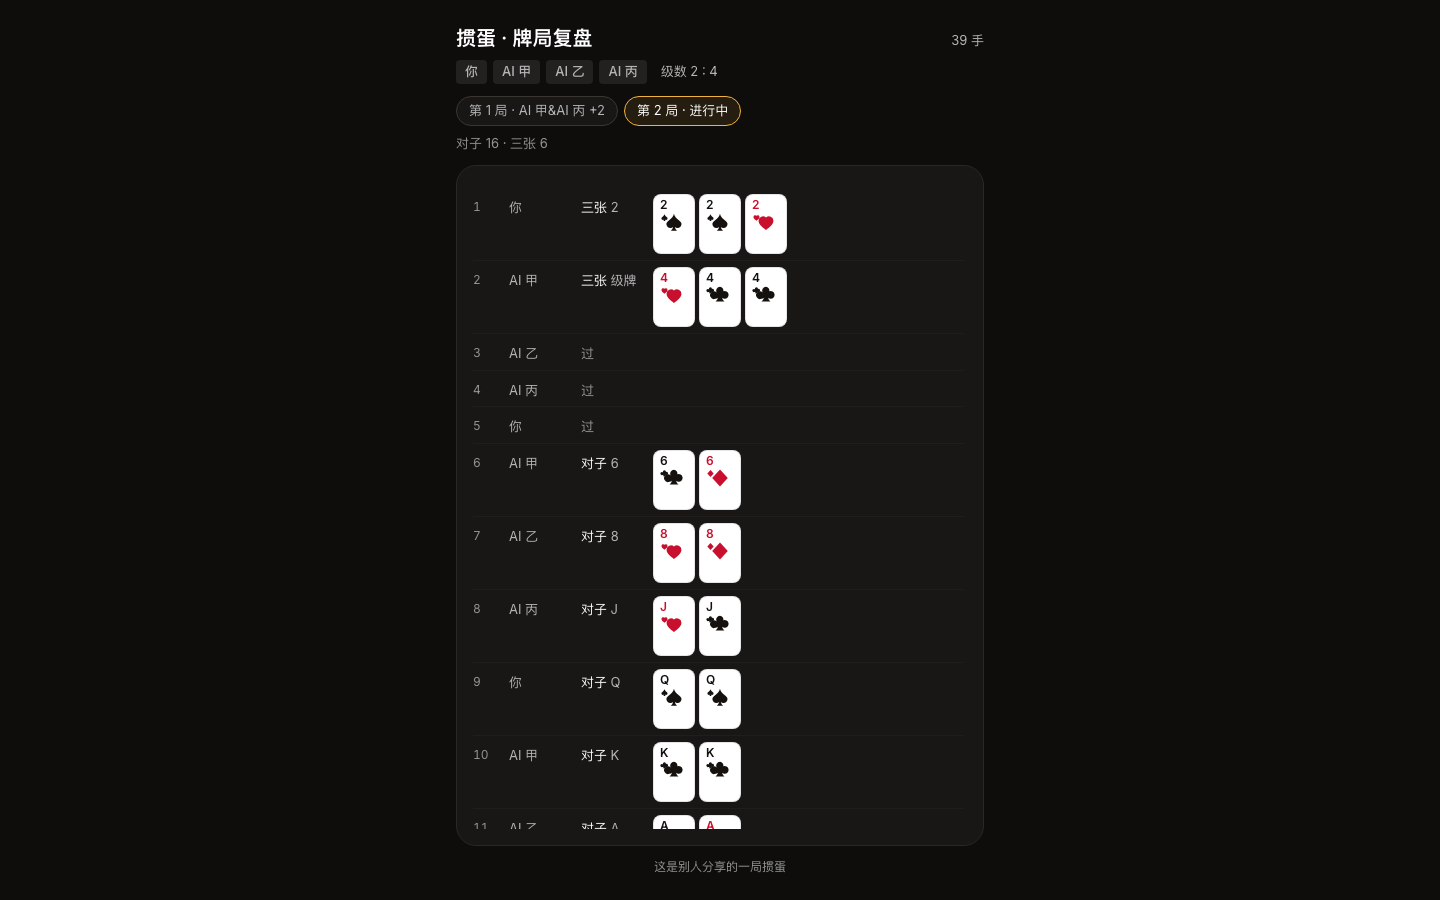
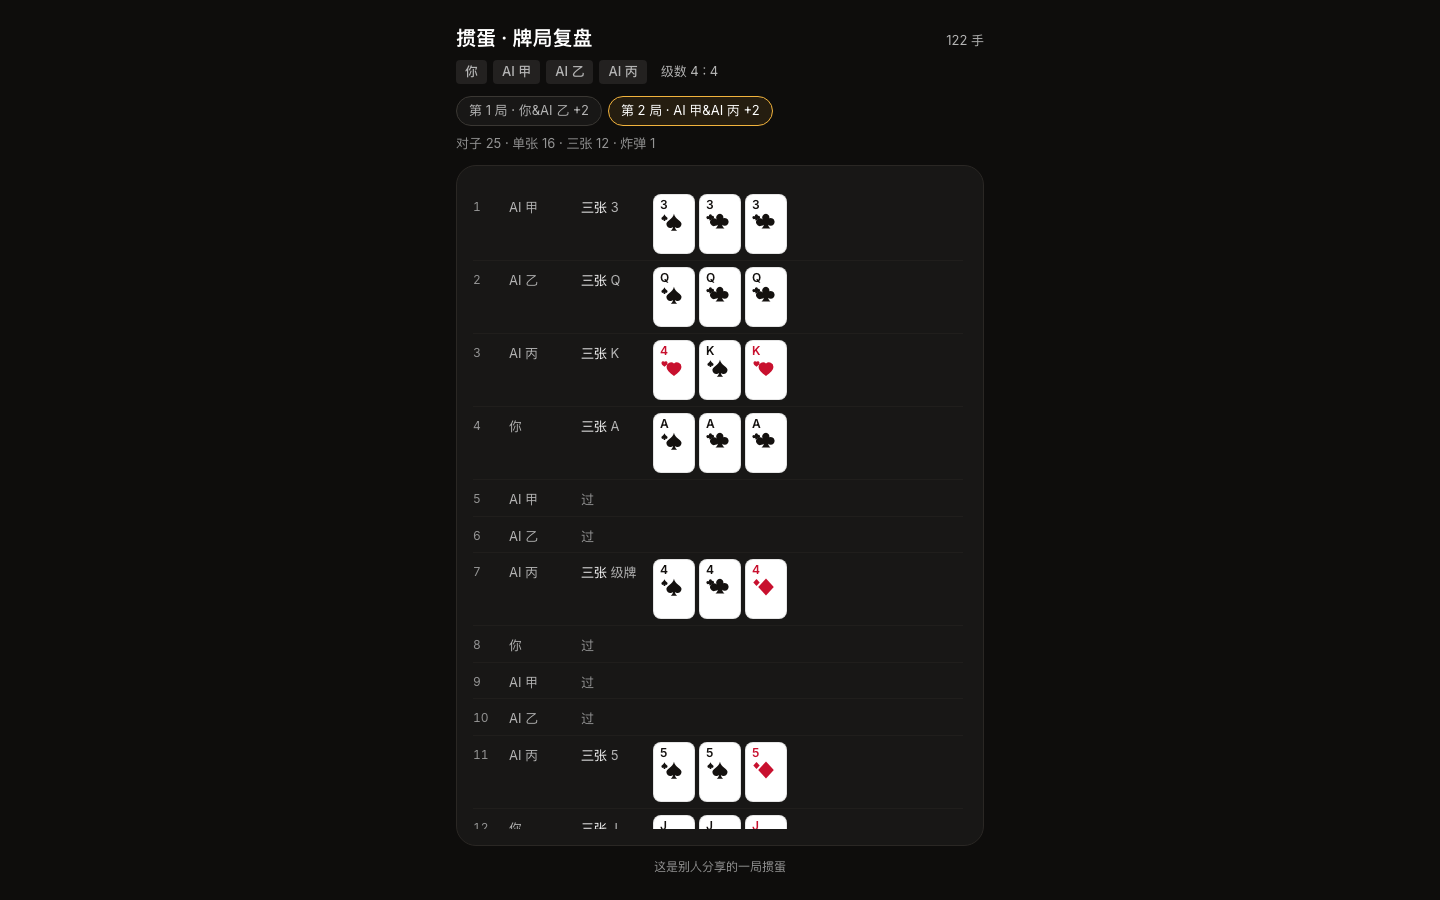
feat(net): 观战模式——第五个人只看牌不上桌
掼蛋常是一桌人打、朋友在旁边看。现在多一个人用「观战链接」就能看。

做法：链接形如 ?r=房号&watch=1；握手时带 watch 标记，房主不给他排座，把他记进
观战名单，状态广播时也发给他一份；观战者断开时从名单里摘掉。

观战者的界面：四个座位全摆出来（按绝对号位 1/2/3/4 号位，不说「我方/对家」）、
桌心的牌、出牌记录照常看；没有手牌、没有操作区，底部一句「正在观战」。

房主的房间里多一条「复制观战链接」+ 一句「发给朋友，他们可以只看牌不上桌」。

顺手把界面里 5 处破折号改成逗号/冒号（house style：破折号一页最多一两处）。

验收：132 tests 全绿；真浏览器观战路径（桌面上+手机端）全对；九条真浏览器冒烟
全过；inspect 0 FAIL 0 WARN，lint 0 FAIL。

diff --git a/src/ui/Table.tsx b/src/ui/Table.tsx
@@ -23,7 +23,8 @@ const COMBO_LABEL: Record<number, string> = {
 const FINISH_LABEL = ['头游', '二游', '三游', '四游']
 
 /** 掼蛋的座次：我 → 下家 → 搭档 → 上家。 */
-function roleOf(seat: Seat, mySeat: Seat): string {
+function roleOf(seat: Seat, mySeat: Seat, spectating?: boolean): string {
+  if (spectating) return `${seat + 1} 号位`
   if (seat === mySeat) return '我'
   if (seat === (mySeat + 1) % 4) return '下家'
   if (seat === (mySeat + 2) % 4) return '搭档'
@@ -43,7 +44,17 @@ function CardBacks({ n }: { n: number }) {
   )
 }
 
-function SeatPanel({ st, seat, mySeat }: { st: GameState; seat: Seat; mySeat: Seat }) {
+function SeatPanel({
+  st,
+  seat,
+  mySeat,
+  spectating,
+}: {
+  st: GameState
+  seat: Seat
+  mySeat: Seat
+  spectating?: boolean
+}) {
   const p = st.players[seat]!
   const isTurn = st.turn === seat && st.phase === 'playing'
   const mine = teamOf(seat) === teamOf(mySeat)
@@ -58,12 +69,12 @@ function SeatPanel({ st, seat, mySeat }: { st: GameState; seat: Seat; mySeat: Se
       </div>
       <div className="mt-1 flex items-center gap-1.5">
         <span className="text-[13px] text-muted">
-          {roleOf(seat, mySeat)} · <span className="num">{p.hand.length}</span> 张
+          {roleOf(seat, mySeat, spectating)} · <span className="num">{p.hand.length}</span> 张
         </span>
         {low && <span className="chip bg-accent/15 text-accent">报牌</span>}
         {p.finishOrder !== null && <span className="chip">{FINISH_LABEL[p.finishOrder]}</span>}
       </div>
-      {seat !== mySeat && <CardBacks n={p.hand.length} />}
+      {(spectating || seat !== mySeat) && <CardBacks n={p.hand.length} />}
     </div>
   )
 }
@@ -150,6 +161,7 @@ export function Table() {
   const mode = useStore((s) => s.mode)
   const roomCode = useStore((s) => s.roomCode)
   const reconnected = useStore((s) => s.reconnected)
+  const spectating = useStore((s) => s.spectating)
   const [selected, setSelected] = useState<Set<string>>(new Set())
   const [handMode, setHandMode] = useState<'rank' | 'suit'>('rank')
   const [handView, setHandView] = useState<'row' | 'grid'>('row')
@@ -285,7 +297,7 @@ export function Table() {
     : null
   /** 出牌从哪个方向落到桌心：自己 / 搭档 / 左家 / 右家 */
   const landClass = (() => {
-    if (!table) return 'animate-pop'
+    if (!table || spectating) return 'animate-pop'
     const rel = (table.seat - mySeat + 4) % 4
     if (rel === 0) return 'animate-land-bottom'
     if (rel === 2) return 'animate-land-top'
@@ -305,9 +317,14 @@ export function Table() {
               <LevelCard level={levelRank} />
               <span className="text-[13px] text-muted">级牌</span>
             </div>
-            <LevelLadder mine={myLevel} theirs={theirLevel} />
+            {!spectating && <LevelLadder mine={myLevel} theirs={theirLevel} />}
           </div>
           <span className="chip">{mode === 'solo' ? '单机' : `房间 ${roomCode ?? ''}`}</span>
+          {spectating && (
+            <span className="chip bg-accent/15 text-accent" data-testid="spectating">
+              观战
+            </span>
+          )}
           {reconnected && (
             <span className="chip bg-accent/15 text-accent" data-testid="reconnected">
               已重新连接
@@ -326,25 +343,35 @@ export function Table() {
       </header>
 
       <main className="flex min-h-0 flex-1 flex-col px-4 pt-3">
-        {/* 座位：上家 · 搭档 · 下家 */}
-        <div className="grid grid-cols-3 items-start gap-2 sm:gap-3">
-          <div className="justify-self-start">
-            <SeatPanel st={st} seat={prev.seat} mySeat={mySeat} />
+        {/* 座位：上家 · 搭档 · 下家（观战时四个座位都摆出来） */}
+        {spectating ? (
+          <div className="grid grid-cols-2 items-start gap-2 sm:grid-cols-4 sm:gap-3">
+            {st.players.map((p) => (
+              <SeatPanel key={p.seat} st={st} seat={p.seat} mySeat={mySeat} spectating />
+            ))}
           </div>
-          <div className="justify-self-center">
-            <SeatPanel st={st} seat={partner.seat} mySeat={mySeat} />
+        ) : (
+          <div className="grid grid-cols-3 items-start gap-2 sm:gap-3">
+            <div className="justify-self-start">
+              <SeatPanel st={st} seat={prev.seat} mySeat={mySeat} />
+            </div>
+            <div className="justify-self-center">
+              <SeatPanel st={st} seat={partner.seat} mySeat={mySeat} />
+            </div>
+            <div className="justify-self-end">
+              <SeatPanel st={st} seat={next.seat} mySeat={mySeat} />
+            </div>
           </div>
-          <div className="justify-self-end">
-            <SeatPanel st={st} seat={next.seat} mySeat={mySeat} />
-          </div>
-        </div>
+        )}
 
         {/* 记录条：出过什么 · 对手还可能有什么 */}
         <div className="mt-3 flex flex-col gap-1.5 border-y border-rule py-2 sm:flex-row sm:items-center sm:gap-4">
           <RoundLog st={st} />
-          <div className="w-full min-w-0 sm:ml-auto sm:w-auto">
-            <UnseenCards st={st} myHand={me.hand} />
-          </div>
+          {!spectating && (
+            <div className="w-full min-w-0 sm:ml-auto sm:w-auto">
+              <UnseenCards st={st} myHand={me.hand} />
+            </div>
+          )}
         </div>
 
         {/* 牌桌中央 */}
@@ -392,6 +419,12 @@ export function Table() {
 
       {/* 我的操作区 */}
       <footer className="shrink-0 border-t border-line px-4 pt-2">
+        {spectating ? (
+          <p className="py-3 text-center text-[13px] text-faint">
+            正在观战，这一局由桌上的人打
+          </p>
+        ) : (
+          <>
         <div className="flex flex-wrap items-center gap-2">
           <span className="chip" data-testid="hand-count">
             我的牌 <span className="num">{me.hand.length}</span> 张
@@ -493,6 +526,8 @@ export function Table() {
             return !(c1 && beats(c1, table.combo))
           }}
         />
+          </>
+        )}
       </footer>
     </div>
   )

diff --git a/src/net/host.ts b/src/net/host.ts
@@ -21,6 +21,8 @@ export interface HostRoom {
   seats: RoomSeat[]
   match: GameState | null
   usedNames: Set<string>
+  /** 观战的人：只看牌，不上桌 */
+  spectators: { connId: string; name: string }[]
 }
 
 let room: HostRoom | null = null
@@ -43,7 +45,7 @@ export function createRoom(): void {
   const seats = initialSeats()
   const usedNames = new Set<string>([seats[0]!.name])
   const peer = new Peer(peerIdOf(code))
-  room = { code, peer, seats, match: null, usedNames }
+  room = { code, peer, seats, match: null, usedNames, spectators: [] }
   ;(window as unknown as Record<string, unknown>).__gdHost = room
 
   peer.on('open', () => {
@@ -78,6 +80,22 @@ function hostHandle(conn: DataConnection, msg: Msg): void {
     return
   }
   if (msg.t !== 'hello') return
+  if (msg.watch) {
+    // 观战：不占座位，只收状态
+    const watchName = (msg.name || '观众').slice(0, 8)
+    r.spectators = r.spectators.filter((sp) => sp.connId !== conn.peer)
+    r.spectators.push({ connId: conn.peer, name: watchName })
+    conn.send({
+      t: 'welcome',
+      seat: -1,
+      seats: r.seats.map((s) => ({ seat: s.seat, name: s.name, kind: s.kind })),
+      reconnected: false,
+    } satisfies Msg)
+    if (r.match) {
+      conn.send({ t: 'state', state: serializeFor(r.match, 0), seat: 0 } satisfies Msg)
+    }
+    return
+  }
   // 认领原座：同一个 token 再来（刷新页面、断线重连）就还是那个座位
   const token = msg.token
   // 房主座位没有 token；客人座位断线后会变空位/AI，但 token 留着，好让重连认领
@@ -118,6 +136,10 @@ function usedName(r: HostRoom, name: string): boolean {
 function hostDrop(conn: DataConnection): void {
   const r = room
   if (!r) return
+  if (r.spectators.some((sp) => sp.connId === conn.peer)) {
+    r.spectators = r.spectators.filter((sp) => sp.connId !== conn.peer)
+    return
+  }
   const seat = r.seats.find((s) => s.connId === conn.peer)
   if (!seat) return
   const wasGuest = seat.kind === 'guest'
@@ -192,6 +214,10 @@ export function broadcastState(): void {
     if (s.kind !== 'guest' || !s.connId) continue
     const conn = (r.peer.connections as Record<string, DataConnection[]>)[s.connId]?.[0]
     conn?.send({ t: 'state', state: serializeFor(m, s.seat), seat: s.seat } satisfies Msg)
+  }
+  for (const sp of r.spectators) {
+    const conn = (r.peer.connections as Record<string, DataConnection[]>)[sp.connId]?.[0]
+    conn?.send({ t: 'state', state: serializeFor(m, 0), seat: 0 } satisfies Msg)
   }
 }
 

diff --git a/src/net/guest.ts b/src/net/guest.ts
@@ -4,6 +4,7 @@ import { peerIdOf, codeFromUrl } from './room'
 import type { Msg } from './room'
 import { useStore } from '../state/store'
 import type { SerializedState } from './room'
+import type { Seat } from '../core/engine'
 
 /** SerializedState → GameState 形状（为 UI 渲染的同一形状；guest 不做本地 step，仅渲染/发 intent） */
 export function deserialized(s: SerializedState): any {
@@ -23,19 +24,31 @@ export function guestToken(): string {
   return t
 }
 
-export function joinRoom(codeOrUrl?: string): 'bad-code' | 'connecting' | 'started' {
+export function joinRoom(codeOrUrl?: string, opts?: { watch?: boolean }): 'bad-code' | 'connecting' | 'started' {
   const code = (codeOrUrl ?? codeFromUrl())?.toUpperCase()
   if (!code || !/^[2-9A-HJKMNP-Z]{6}$/.test(code)) {
     return 'bad-code'
   }
   const peer = new Peer()
   guestPeer = peer
-  useStore.setState({ screen: 'room', mode: 'guest', roomCode: code, joining: true, roomSeats: null })
+  useStore.setState({
+    screen: 'room',
+    mode: 'guest',
+    roomCode: code,
+    joining: true,
+    roomSeats: null,
+    spectating: opts?.watch === true,
+  })
   peer.on('open', () => {
     const conn = peer.connect(peerIdOf(code), { reliable: true })
     guestConn = conn
     conn.on('open', () => {
-      conn.send({ t: 'hello', name: localStorage.getItem('gd-nick') || '玩家', token: guestToken() } satisfies Msg)
+      conn.send({
+        t: 'hello',
+        name: localStorage.getItem('gd-nick') || '玩家',
+        token: guestToken(),
+        watch: opts?.watch === true,
+      } satisfies Msg)
       useStore.setState({ joining: false, intentSink: (a) => conn.send({ t: 'intent', action: a } satisfies Msg), teardown: leaveGuest })
       ;(window as unknown as Record<string, unknown>).__gdGuest = { conn, seat: null }
     })
@@ -49,8 +62,11 @@ export function joinRoom(codeOrUrl?: string): 'bad-code' | 'connecting' | 'start
 
 function guestHandle(msg: Msg): void {
   if (msg.t === 'welcome') {
+    const seat = msg.seat
+    const spectating = seat === -1
     useStore.setState({
-      mySeat: msg.seat,
+      mySeat: spectating ? 0 : (seat as Seat),
+      spectating,
       roomSeats: msg.seats.map((s) => ({ seat: s.seat, name: s.name, kind: s.kind })) as never,
       reconnected: msg.reconnected === true,
     })

diff --git a/src/ui/RoomView.tsx b/src/ui/RoomView.tsx
@@ -162,6 +162,7 @@ function HostSide({ code, seats }: { code: string | null; seats: RoomSeats }) {
   const link = code ? shareLink(code) : ''
   const seatList = seats ?? []
   const aiLevel = useStore((s) => s.aiLevel)
+  const watchLink = code ? `${shareLink(code)}&watch=1` : ''
   return (
     <div className="mx-auto w-full max-w-[480px] px-4 py-8">
       <div className="panel p-5">
@@ -187,6 +188,25 @@ function HostSide({ code, seats }: { code: string | null; seats: RoomSeats }) {
             复制
           </button>
         </div>
+
+        <div className="mt-4 flex items-center gap-2">
+          <input
+            readOnly
+            value={watchLink}
+            className="h-9 min-w-0 flex-1 rounded-control border border-line bg-raised px-3 text-xs font-mono text-muted"
+            data-testid="watch-link"
+          />
+          <button
+            className="btn btn-secondary btn-sm shrink-0"
+            onClick={() => {
+              navigator.clipboard?.writeText(watchLink)
+            }}
+            data-testid="copy-watch-link"
+          >
+            复制观战链接
+          </button>
+        </div>
+        <p className="mt-1.5 text-[12px] text-faint">发给朋友，他们可以只看牌不上桌</p>
 
         <div className="mt-4 flex items-center gap-2">
           <span className="text-sm text-muted">AI 难度</span>

diff --git a/src/ui/LevelLadder.tsx b/src/ui/LevelLadder.tsx
@@ -3,7 +3,7 @@ import { levelLabel } from '../core/cards'
 const STEPS = 13 // 2 … A
 const STEP_NAMES = ['2', '3', '4', '5', '6', '7', '8', '9', '10', 'J', 'Q', 'K', 'A']
 
-/** 级牌：打几级就画一张那个点的小白牌——掼蛋自己的东西。 */
+/** 级牌：打几级就画一张那个点的小白牌，掼蛋自己的东西。 */
 export function LevelCard({ level }: { level: number }) {
   return (
     <div className="flex h-[30px] w-[22px] items-center justify-center rounded-[4px] border border-black/10 bg-card text-[13px] font-bold text-card-ink">
@@ -40,7 +40,7 @@ export function LevelTrack({
   )
 }
 
-/** 级牌阶梯：两队各一条轨——签名元素，升级进度一眼可见。 */
+/** 级牌阶梯：两队各一条轨，签名元素，升级进度一眼可见。 */
 export function LevelLadder({
   mine,
   theirs,

diff --git a/src/net/room.ts b/src/net/room.ts
@@ -21,11 +21,12 @@ export function codeFromUrl(): string | null {
 }
 
 export type Msg =
-  /** 客人打招呼：带一个本机记住的 token，刷新页面后能坐回原座 */
-  | { t: 'hello'; name: string; token?: string }
+  /** 客人打招呼：带一个本机记住的 token，刷新页面后能坐回原座；watch = 只看牌不上桌 */
+  | { t: 'hello'; name: string; token?: string; watch?: boolean }
   | {
       t: 'welcome'
-      seat: Seat
+      /** -1 表示观战（不上桌） */
+      seat: Seat | -1
       /** 各座信息（名字 + 身份），客人据此画等候室 */
       seats: { seat: Seat; name: string; kind: 'host' | 'guest' | 'ai' | 'empty' }[]
       reconnected?: boolean

diff --git a/src/state/store.ts b/src/state/store.ts
@@ -32,6 +32,8 @@ interface Store {
   reconnected: boolean
   /** 被房主请出房间时的说明（空串 = 普通掉线） */
   kicked: string
+  /** 观战：只看牌，不上桌 */
+  spectating: boolean
   intentSink: ((a: Action) => void) | null
   afterDispatch: (() => void) | null
   teardown: (() => void) | null
@@ -55,6 +57,7 @@ export const useStore = create<Store>((set, get) => ({
   guestLost: false,
   reconnected: false,
   kicked: '',
+  spectating: false,
   intentSink: null,
   afterDispatch: null,
   teardown: null,

diff --git a/src/ui/HelpSheet.tsx b/src/ui/HelpSheet.tsx
@@ -21,7 +21,7 @@ const SECTIONS: { title: string; items: string[] }[] = [
       '级牌比 A 大；级牌不能当自己的点数出（顺子里可以当相邻点数用）',
       '头游那队升 1 级；对家（双下）升 3 级',
       '打到 A 级要双下（1+2 名同队）才算拿下整场',
-      '一局里最后一名是「下游」——下游那队下一局赢不了整场',
+      '一局里最后一名是「下游」，下游那队下一局赢不了整场',
     ],
   },
   {

diff --git a/src/App.tsx b/src/App.tsx
@@ -32,7 +32,9 @@ export default function App() {
     const r = codeFromUrl()
     if (r && useStore.getState().screen === 'lobby') {
       useStore.setState({ mode: 'guest', screen: 'room' })
-      joinRoom(r)
+      // ?watch=1 只看牌不上桌（观战）
+      const watch = new URLSearchParams(window.location.search).get('watch') === '1'
+      joinRoom(r, { watch })
       return
     }
     // ?solo=1 直达牌桌（分享单机局 / 验收截图用）

diff --git a/src/ui/PlayHistory.tsx b/src/ui/PlayHistory.tsx
@@ -12,7 +12,7 @@ const FINISH_LABEL = ['头游', '二游', '三游', '四游']
 
 /**
  * 牌谱：这一局每一手出的真实牌面。
- * 出牌记录条只写「谁出了什么牌型」，这里能看清是哪几张——复盘、算账、记错牌都靠它。
+ * 出牌记录条只写「谁出了什么牌型」，这里能看清是哪几张：复盘、算账、记错牌都靠它。
  */
 export function PlayList({
   log,

diff --git a/src/ui/Mark.tsx b/src/ui/Mark.tsx
@@ -1,4 +1,4 @@
-/** 产品标记：一张牌里的一枚黑桃——掼蛋自己的东西，不是通用字标。 */
+/** 产品标记：一张牌里的一枚黑桃，掼蛋自己的东西，不是通用字标。 */
 export function Mark({ size = 20 }: { size?: number }) {
   return (
     <svg width={size} height={size} viewBox="0 0 20 20" aria-hidden="true" className="shrink-0">

diff --git a/src/ui/Suit.tsx b/src/ui/Suit.tsx
@@ -5,7 +5,7 @@ const PATHS: Record<number, string> = {
   3: 'M12 2.6 20.5 12 12 21.4 3.5 12 12 2.6Z',
 }
 
-/** 花色用矢量画，不用字体里的符号——不同系统渲染不一致，也会被当成表情。 */
+/** 花色用矢量画，不用字体里的符号：不同系统渲染不一致，也会被当成表情。 */
 export function Suit({
   suit,
   className,
